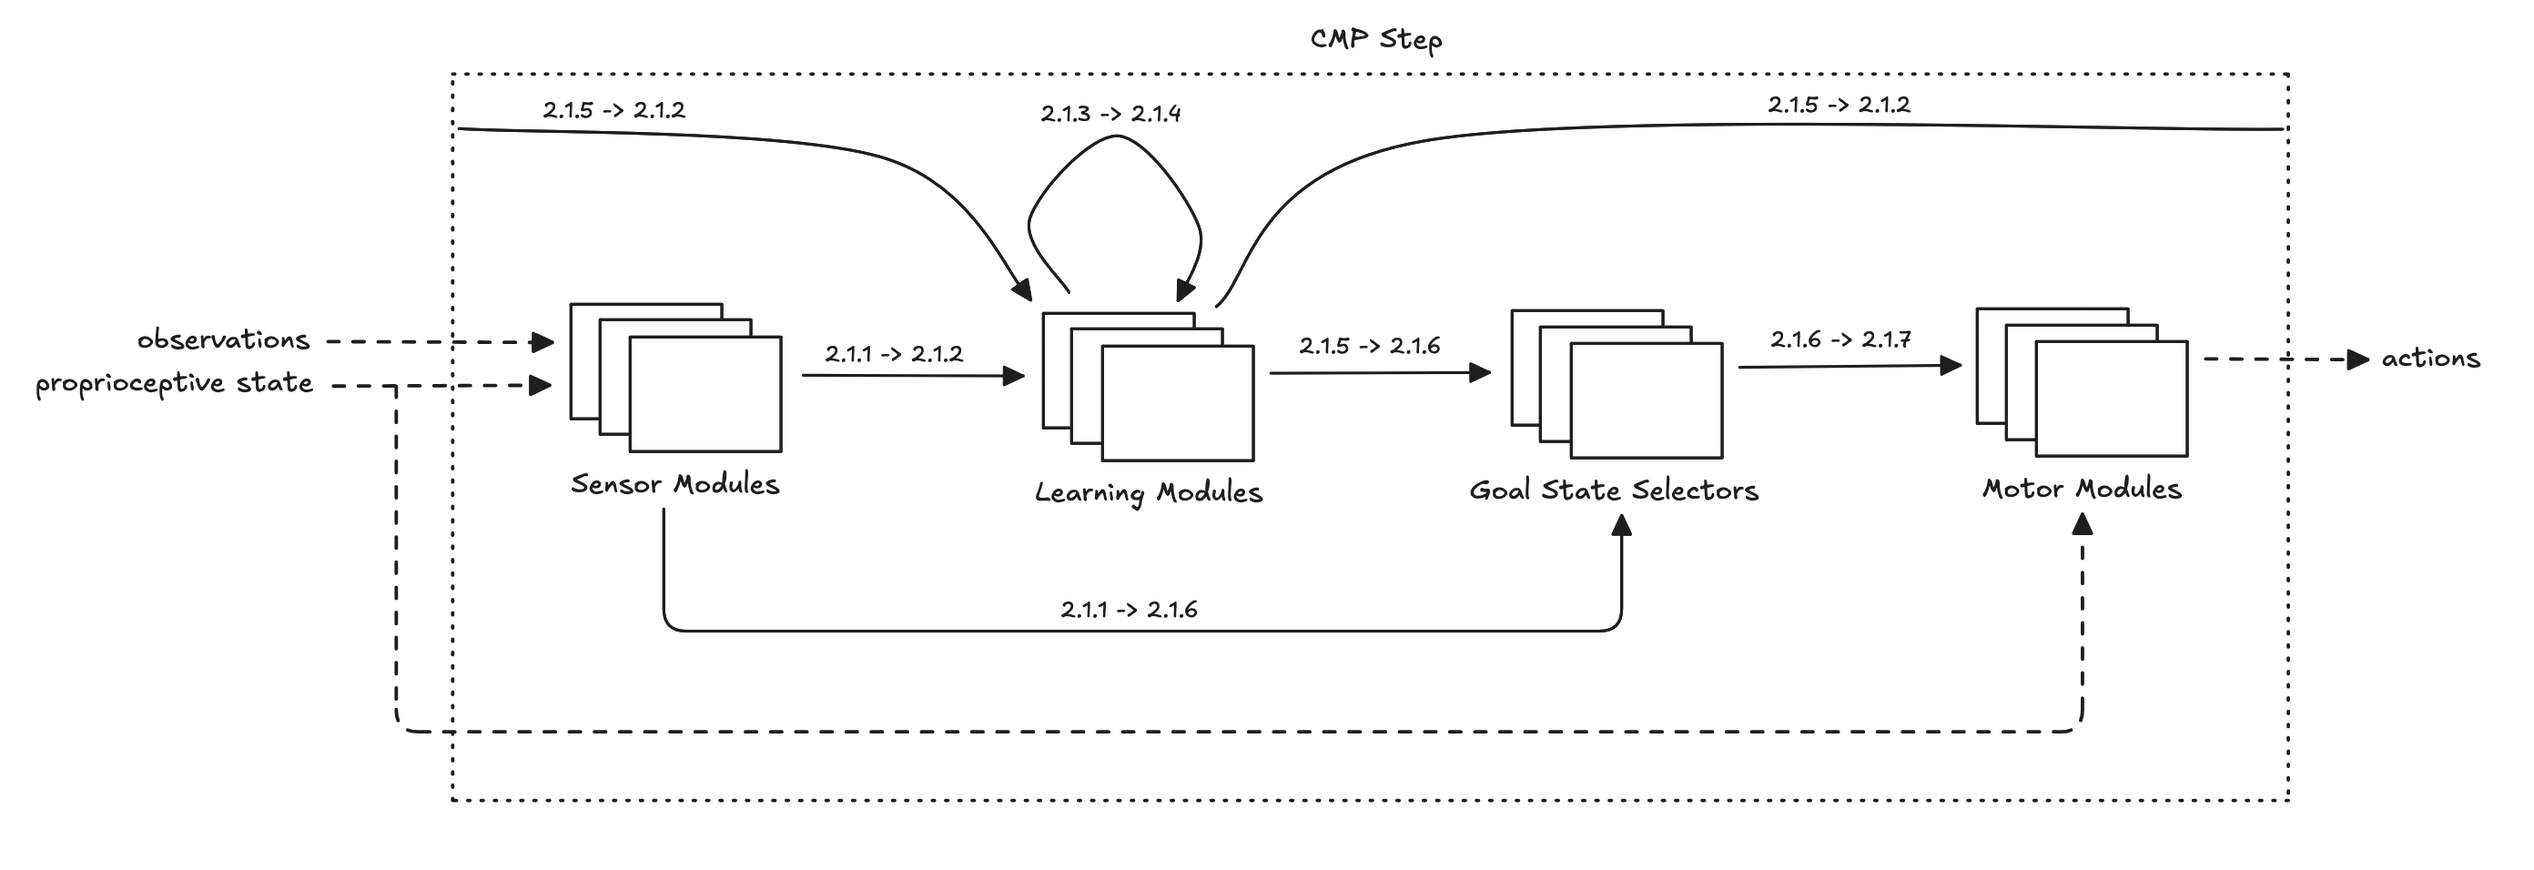
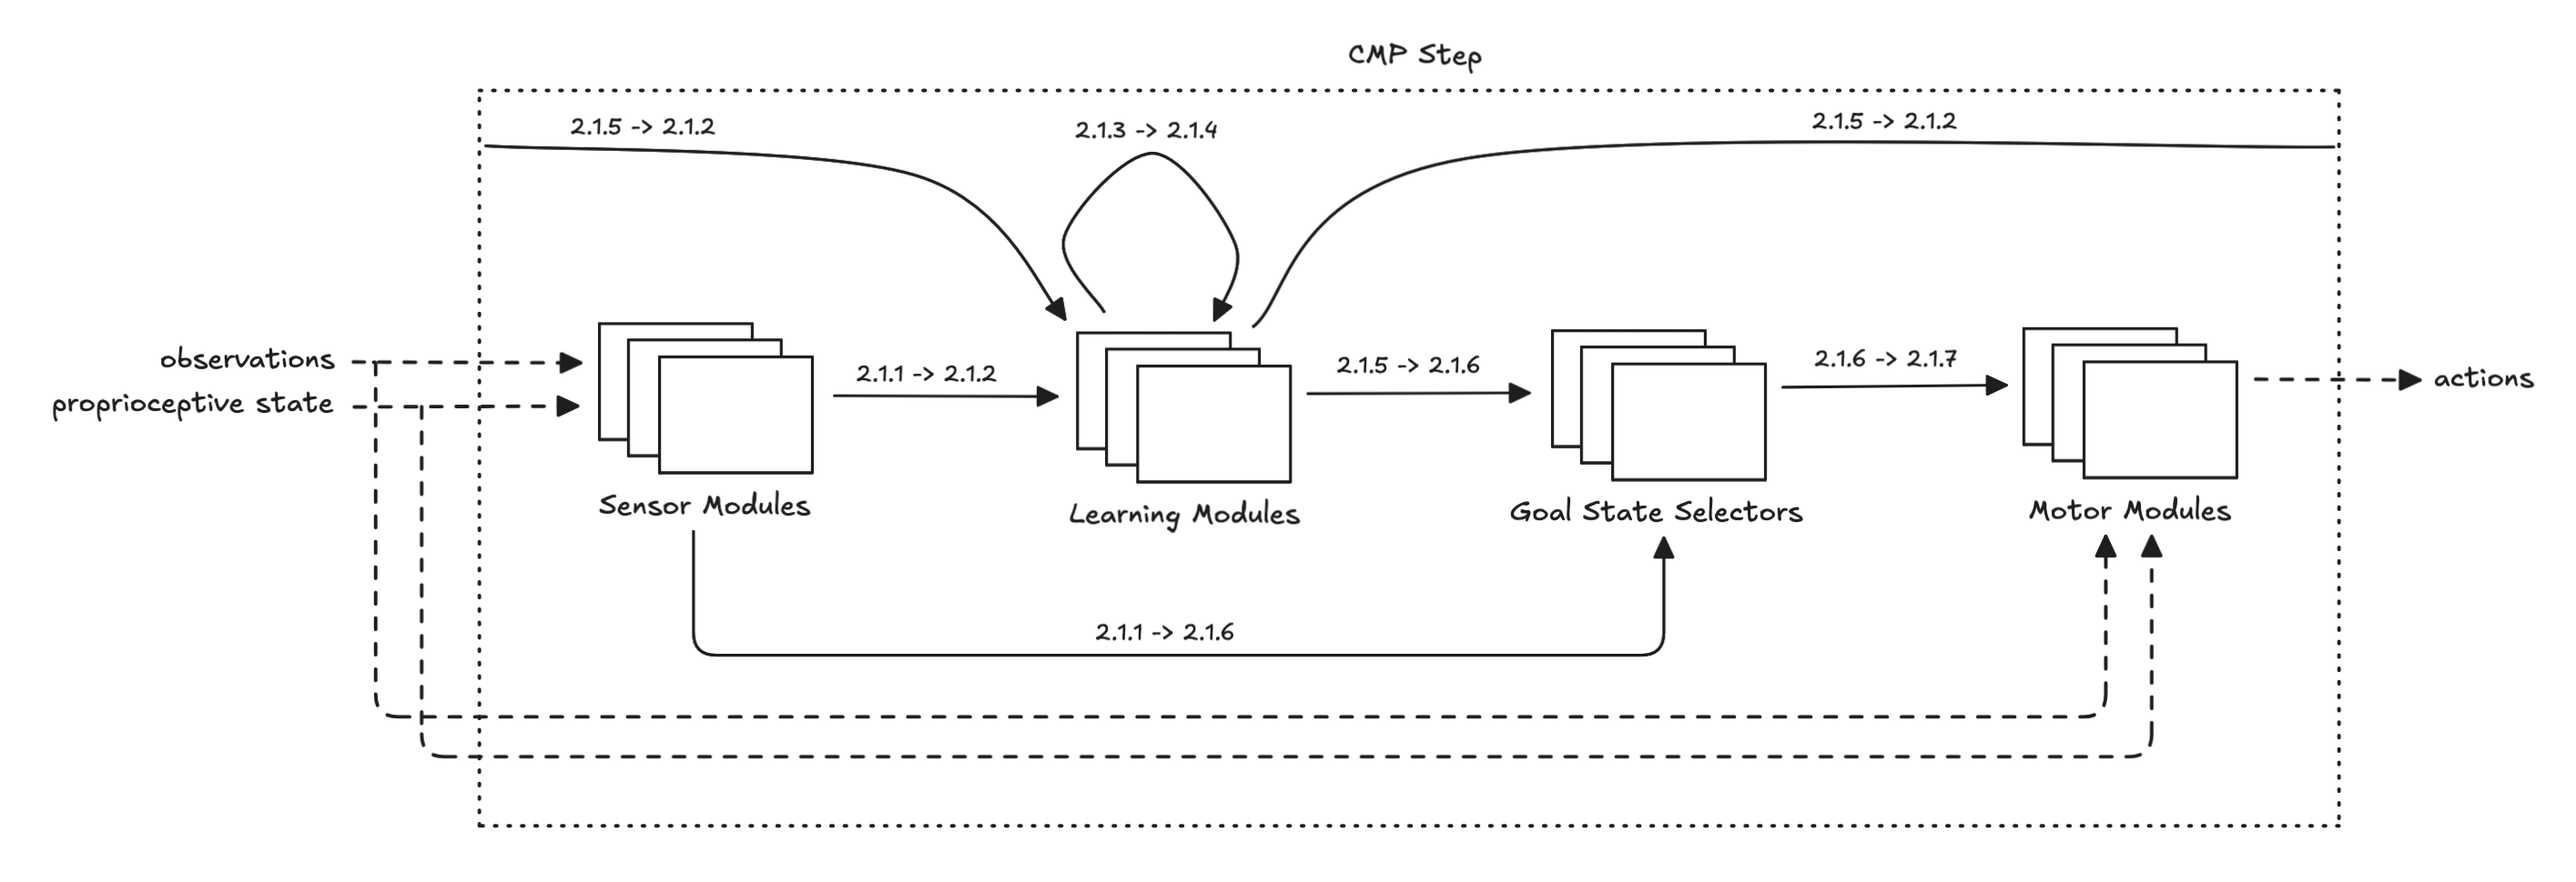
rfc: motor modules use observations as well

diff --git a/rfcs/0000_cortical_messaging_protocol_cmp_v1.md b/rfcs/0000_cortical_messaging_protocol_cmp_v1.md
@@ -136,7 +136,7 @@ All in-transit Cortical Messages to be received by Goal State Selectors are deli
 
 #### 2.1.7 Motor Modules
 
-During the Motor Modules phase the Cortical Messages from Goal State Selectors are delivered to the Motor Modules. The Motor Modules process the Cortical Messages and output actions. The phase ends when all actions are created.
+During the Motor Modules phase the Cortical Messages from Goal State Selectors are delivered to the Motor Modules. The Motor Modules process the Cortical Messages, observations, and proprioceptive state and generate zero, one, or more actions. The phase ends when all actions are created.
 
 No Cortical Messages are generated in this phase. All in-transit Cortical Messages to be received by Motor Modules are delivered to the Motor Modules.
 
